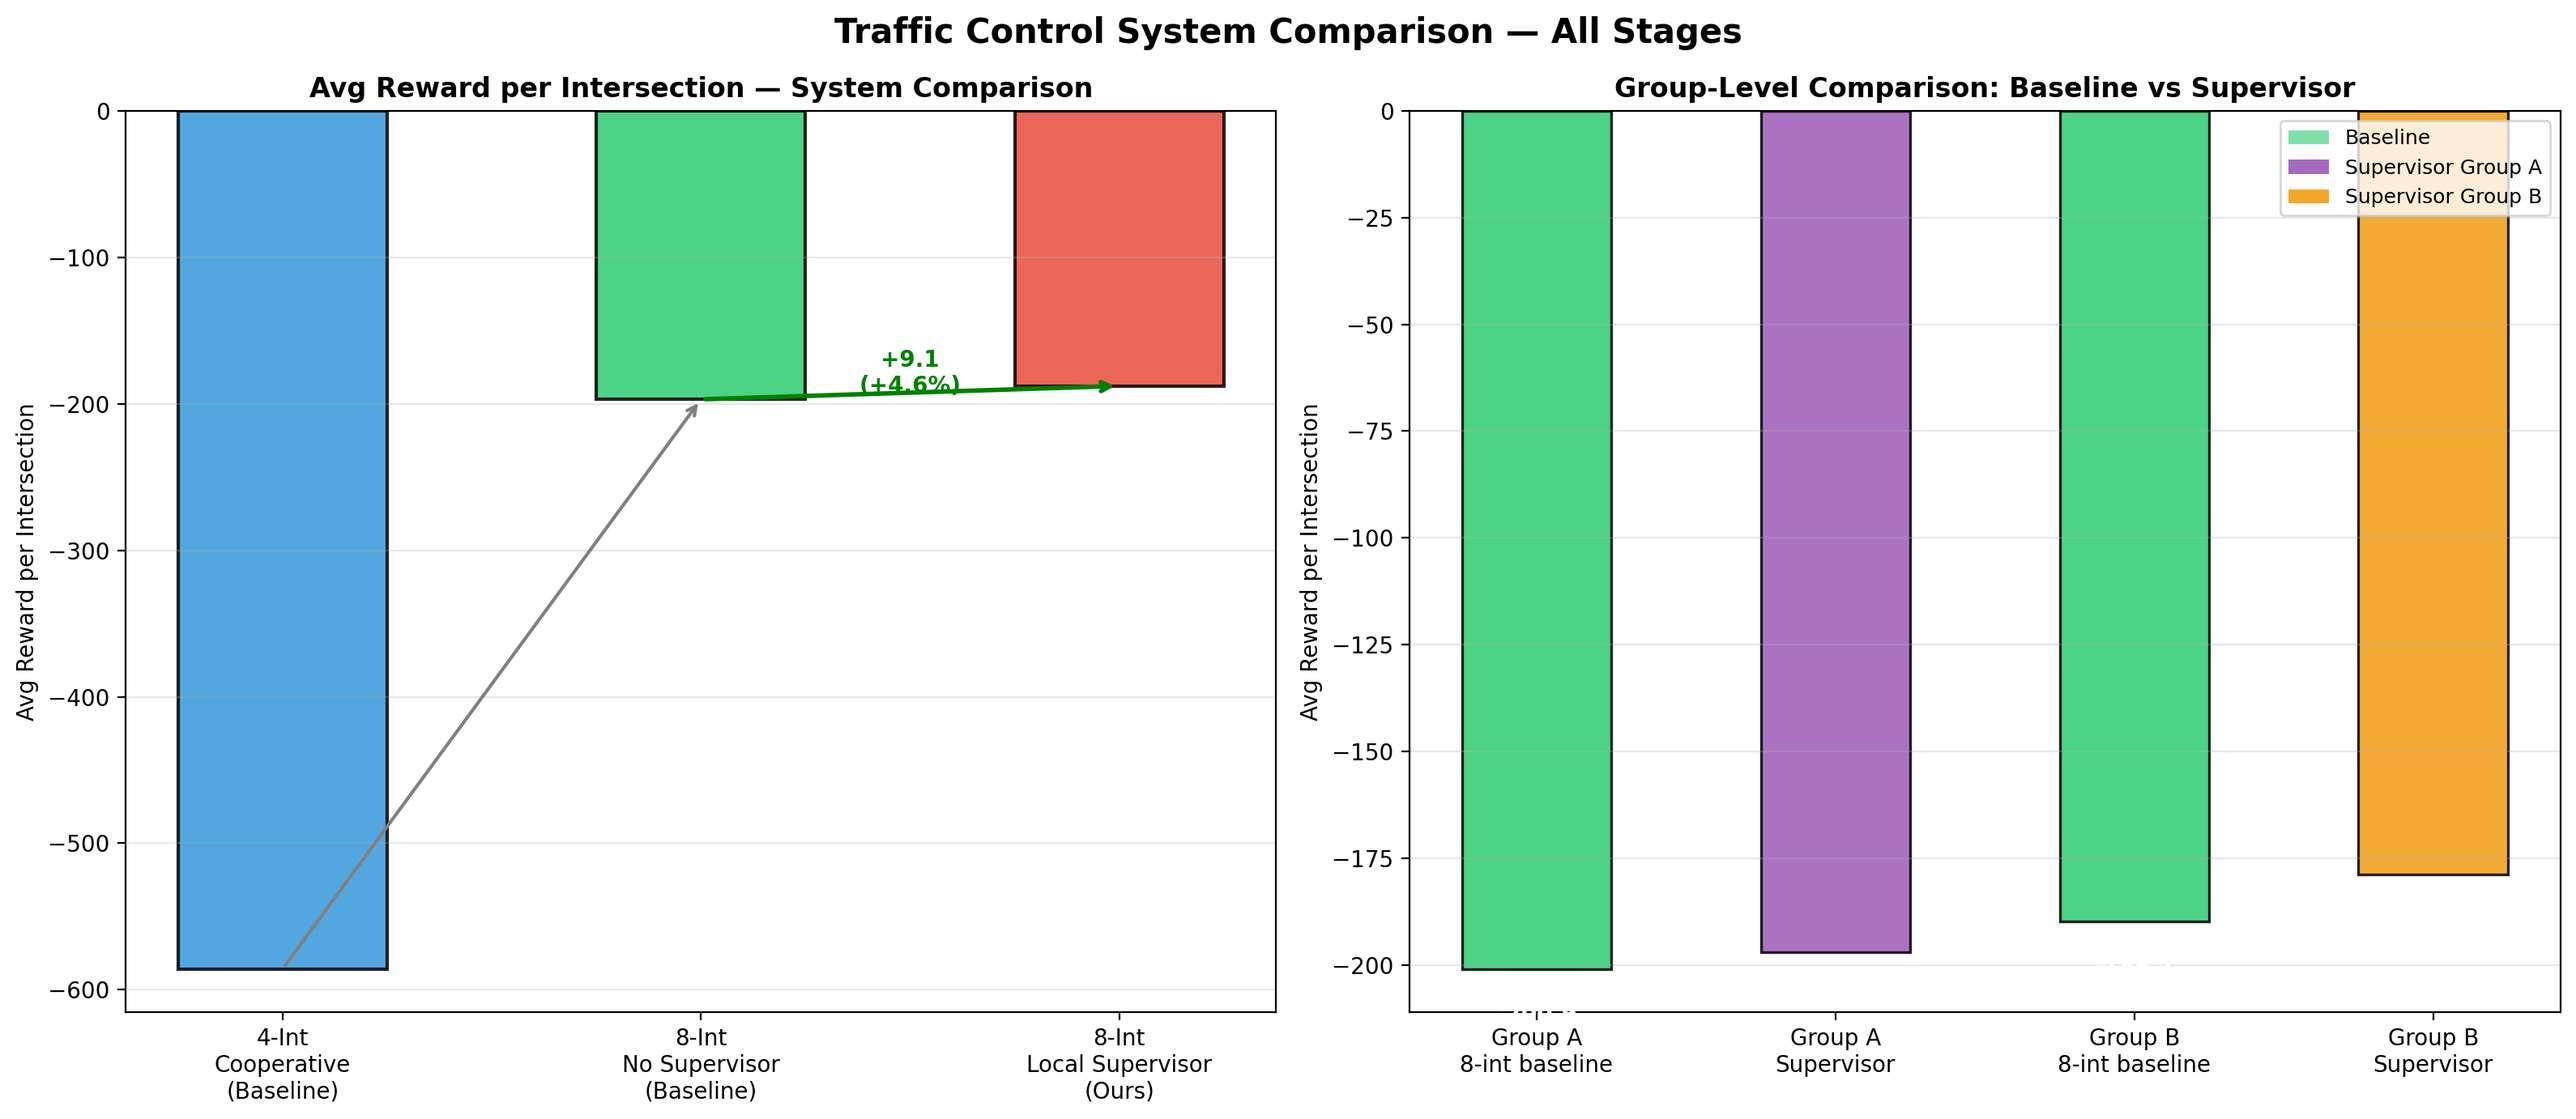
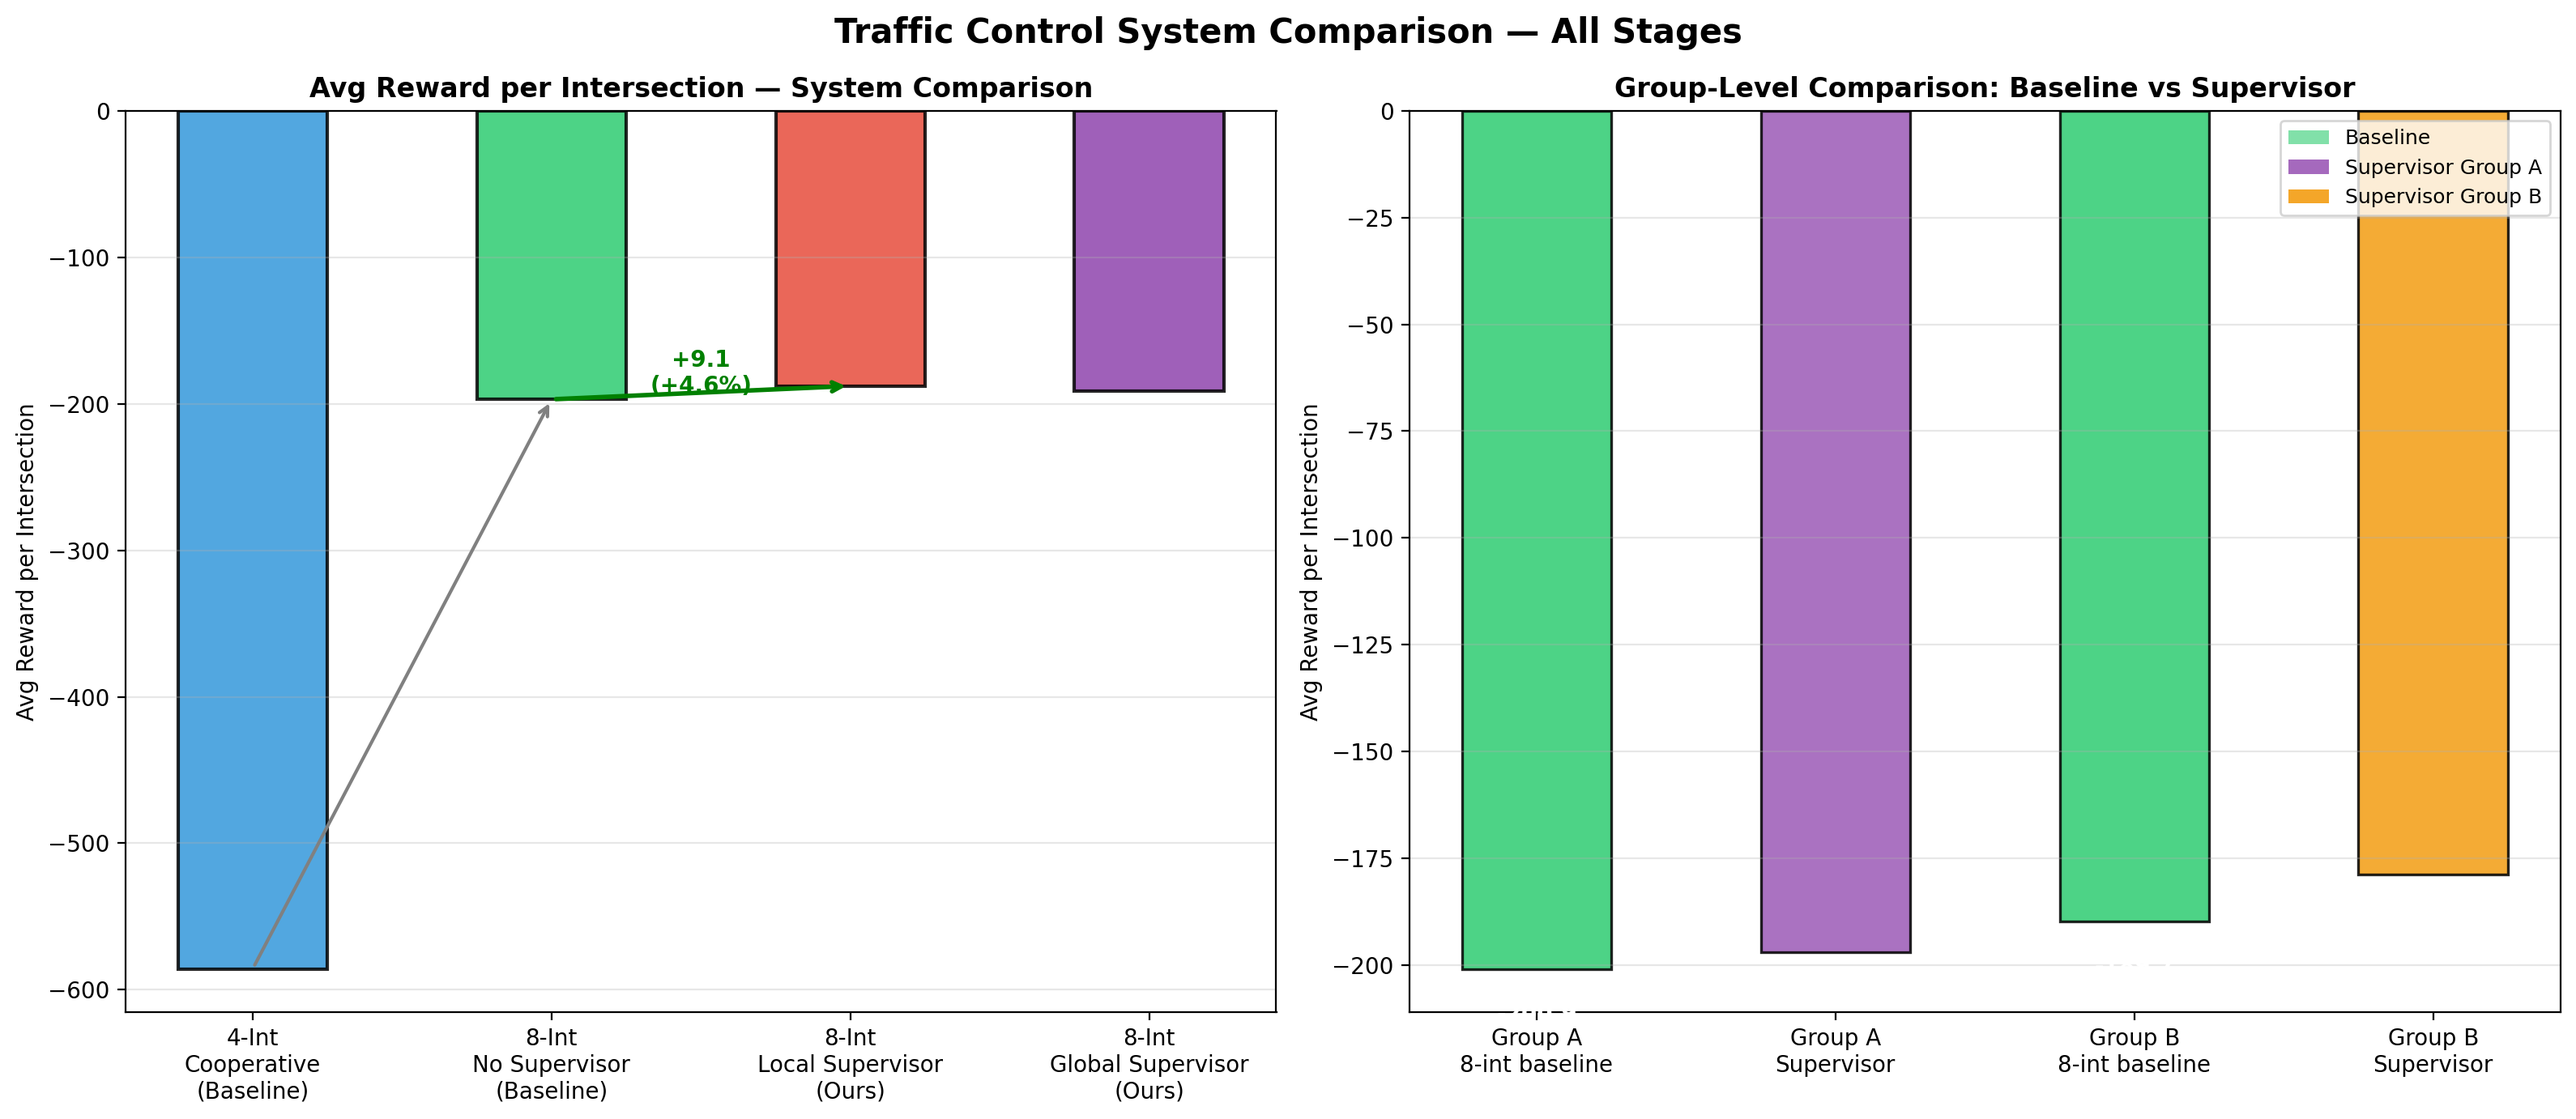
generating some visualtion

diff --git a/analyze_global_supervisor.py b/analyze_global_supervisor.py
@@ -1,0 +1,213 @@
+"""
+Global Supervisor System — Visualization & Validation
+===================================================
+Generates plots and validation specifically for the Global Supervisor (Step 2)
+Output folder: analysis_global_supervisor/
+"""
+
+import os
+import numpy as np
+import pandas as pd
+import matplotlib.pyplot as plt
+import matplotlib.patches as mpatches
+from matplotlib.gridspec import GridSpec
+
+OUTPUT_DIR = 'analysis_global_supervisor'
+os.makedirs(OUTPUT_DIR, exist_ok=True)
+
+# ── Colour palette ────────────────────────────────────────────────────────────
+C_BASELINE  = '#2ECC71'   # green  — 8-intersection baseline
+C_SUP_LOCAL = '#E74C3C'   # red    — local supervisor
+C_SUP_GLOB  = '#8E44AD'   # purple — global supervisor
+C_GROUP_A   = '#9B59B6'   # purple
+C_GROUP_B   = '#F39C12'   # orange
+
+BASELINE_8INT  = -197.0
+LOCAL_SUP_AVG  = -187.9
+
+# ─────────────────────────────────────────────────────────────────────────────
+# Load data
+# ─────────────────────────────────────────────────────────────────────────────
+def load_global_data():
+    data = {}
+    
+    path = 'results_global_supervisor/training_history.csv'
+    if os.path.exists(path):
+        data['train'] = pd.read_csv(path)
+    else:
+        print(f"✗ Missing: {path}")
+        data['train'] = None
+
+    path = 'results_global_supervisor/eval_results.csv'
+    if os.path.exists(path):
+        data['eval'] = pd.read_csv(path)
+    else:
+        print(f"✗ Missing: {path}")
+        data['eval'] = None
+
+    return data
+
+# ─────────────────────────────────────────────────────────────────────────────
+# Validation checks
+# ─────────────────────────────────────────────────────────────────────────────
+def validate_data(data):
+    print("\n" + "="*60)
+    print("  GLOBAL SUPERVISOR - DATA VALIDATION")
+    print("="*60)
+    errors = []
+
+    if data.get('train') is not None:
+        df = data['train']
+        print(f"\n[Global Supervisor Training]")
+        print(f"  Episodes        : {len(df)}")
+        print(f"  Network reward  : min={df['Network_Reward'].min():.1f}, "
+              f"max={df['Network_Reward'].max():.1f}, "
+              f"final={df['Network_Reward'].iloc[-1]:.1f}")
+        print(f"  Sup A loss      : mean={df['Sup_A_Loss'].mean():.4f}")
+        
+        first_half  = df['Network_Reward'].iloc[:len(df)//2].mean()
+        second_half = df['Network_Reward'].iloc[len(df)//2:].mean()
+        if second_half > first_half:
+            print(f"  ✅ Reward improved: {first_half:.1f} → {second_half:.1f}")
+        else:
+            print(f"  ⚠  Reward did NOT improve: {first_half:.1f} → {second_half:.1f}")
+            errors.append("Training reward did not improve over time. The 28-dim space might be unstable.")
+
+        tls_ids = [c for c in df.columns if c.startswith('tls_')]
+        if tls_ids:
+            final_rewards = [df[t].iloc[-50:].mean() for t in tls_ids]
+            if len(set([round(r, 1) for r in final_rewards])) > 1:
+                print(f"  ✅ Per-intersection rewards are differentiated")
+            else:
+                print(f"  ⚠  All per-intersection rewards are identical")
+                errors.append("Per-intersection rewards identical")
+
+    if data.get('eval') is not None:
+        df = data['eval']
+        print(f"\n[Global Supervisor Evaluation]")
+        print(f"  Episodes        : {len(df)}")
+        rewards = df['network_reward'].values
+        print(f"  Avg reward/ep   : {rewards.mean():.1f} ± {rewards.std():.1f}")
+        print(f"  Avg/intersection: {rewards.mean()/8:.1f}")
+
+        if rewards.std() > 1.0:
+            print(f"  ✅ Evaluation has healthy variation (std={rewards.std():.1f})")
+        else:
+            print(f"  ⚠  Evaluation results are suspiciously deterministic")
+            errors.append("Evaluation results are deterministic")
+
+    print("\n" + "="*60)
+    if errors:
+        print(f"  ⚠  {len(errors)} issue(s) found:")
+        for e in errors:
+            print(f"     • {e}")
+    else:
+        print("  ✅ All checks passed — global supervisor data looks healthy!")
+    print("="*60)
+    return errors
+
+# ─────────────────────────────────────────────────────────────────────────────
+# Polt 1: Training Convergence
+# ─────────────────────────────────────────────────────────────────────────────
+def plot_training_convergence(data):
+    if data.get('train') is None: return
+
+    df = data['train']
+    eps = np.arange(1, len(df) + 1)
+    window = 30
+
+    fig = plt.figure(figsize=(18, 10))
+    fig.suptitle('Global Supervisor Training Convergence (900 Episodes)', fontsize=16, fontweight='bold', y=0.98)
+    gs = GridSpec(2, 3, figure=fig, hspace=0.4, wspace=0.35)
+
+    # 1a: Network reward
+    ax = fig.add_subplot(gs[0, :2])
+    ax.plot(eps, df['Network_Reward'], alpha=0.25, color=C_SUP_GLOB, linewidth=0.8)
+    smooth = df['Network_Reward'].rolling(window, min_periods=1).mean()
+    ax.plot(eps, smooth, color=C_SUP_GLOB, linewidth=2.5, label='Global Sup (smoothed)')
+    ax.axhline(BASELINE_8INT * 8, color=C_BASELINE, linestyle='--', linewidth=2, label=f'8-int baseline ({BASELINE_8INT * 8:.0f})')
+    ax.axhline(LOCAL_SUP_AVG * 8, color=C_SUP_LOCAL, linestyle=':', linewidth=2, label=f'Local Sup avg ({LOCAL_SUP_AVG * 8:.0f})')
+    ax.set_title('Network Total Reward per Episode', fontweight='bold')
+    ax.legend(fontsize=9)
+    ax.grid(True, alpha=0.3)
+
+    # 1b: Group rewards
+    ax = fig.add_subplot(gs[0, 2])
+    smooth_a = df['Group_A_Reward'].rolling(window, min_periods=1).mean() / 4
+    smooth_b = df['Group_B_Reward'].rolling(window, min_periods=1).mean() / 4
+    ax.plot(eps, smooth_a, color=C_GROUP_A, linewidth=2, label='Group A avg/int')
+    ax.plot(eps, smooth_b, color=C_GROUP_B, linewidth=2, label='Group B avg/int')
+    ax.axhline(BASELINE_8INT, color=C_BASELINE, linestyle='--', linewidth=1.5, label=f'Baseline ({BASELINE_8INT})')
+    ax.set_title('Group Rewards (smoothed)', fontweight='bold')
+    ax.legend(fontsize=8)
+    ax.grid(True, alpha=0.3)
+
+    # 1c: Losses
+    ax = fig.add_subplot(gs[1, 2])
+    smooth_la = df['Sup_A_Loss'].rolling(window, min_periods=1).mean()
+    smooth_lb = df['Sup_B_Loss'].rolling(window, min_periods=1).mean()
+    ax.plot(eps, smooth_la, color=C_GROUP_A, linewidth=2, label='Supervisor A loss')
+    ax.plot(eps, smooth_lb, color=C_GROUP_B, linewidth=2, label='Supervisor B loss')
+    ax.set_title('Global Supervisor TD Loss (smoothed)', fontweight='bold')
+    ax.legend(fontsize=9)
+    ax.grid(True, alpha=0.3)
+
+    plt.savefig(f'{OUTPUT_DIR}/01_global_training_convergence.png', dpi=200, bbox_inches='tight')
+    plt.close()
+
+# ─────────────────────────────────────────────────────────────────────────────
+# Plot 2: Evaluation Breakdown
+# ─────────────────────────────────────────────────────────────────────────────
+def plot_eval_breakdown(data):
+    if data.get('eval') is None: return
+
+    df = data['eval']
+    tls_ids = [f'tls_{i}' for i in range(1, 9)]
+    avgs = [df[t].mean() for t in tls_ids]
+    stds = [df[t].std() for t in tls_ids]
+
+    fig, axes = plt.subplots(1, 2, figsize=(16, 7))
+    fig.suptitle('Global Supervisor — Per-Intersection Evaluation Performance', fontsize=15, fontweight='bold')
+
+    ax = axes[0]
+    colors = [C_GROUP_A if i < 4 else C_GROUP_B for i in range(len(tls_ids))]
+    bars = ax.bar(tls_ids, avgs, yerr=stds, color=colors, alpha=0.85, edgecolor='black', capsize=5)
+    ax.axhline(BASELINE_8INT, color=C_BASELINE, linewidth=2.5, linestyle='--', label=f'Baseline ({BASELINE_8INT})')
+    
+    global_avg = df['network_reward'].mean() / 8
+    ax.axhline(global_avg, color=C_SUP_GLOB, linewidth=2, linestyle='-', label=f'Global avg ({global_avg:.1f})')
+    ax.axhline(LOCAL_SUP_AVG, color=C_SUP_LOCAL, linewidth=2, linestyle=':', label=f'Local avg ({LOCAL_SUP_AVG})')
+    
+    ax.set_title('Avg Reward per Intersection (±std)', fontweight='bold')
+    ax.legend(fontsize=9)
+    ax.grid(axis='y', alpha=0.3)
+
+    for bar, val, std in zip(bars, avgs, stds):
+        ax.text(bar.get_x() + bar.get_width()/2, val - std - 15, f'{val:.0f}', ha='center', va='top', fontsize=8, color='white')
+
+    ax = axes[1]
+    episodes = df['episode'].values
+    net_per_int = df['network_reward'].values / 8
+    ax.plot(episodes, net_per_int, 'o-', color=C_SUP_GLOB, linewidth=2, markersize=5, label='Global Supervisor avg/int')
+    ax.axhline(BASELINE_8INT, color=C_BASELINE, linewidth=2, linestyle='--', label=f'Baseline ({BASELINE_8INT})')
+    ax.axhline(LOCAL_SUP_AVG, color=C_SUP_LOCAL, linewidth=2, linestyle=':', label=f'Local Supervisor ({LOCAL_SUP_AVG})')
+    
+    ax.set_title('Episode-by-Episode Consistency', fontweight='bold')
+    ax.legend(fontsize=9)
+    ax.grid(True, alpha=0.3)
+
+    plt.tight_layout()
+    plt.savefig(f'{OUTPUT_DIR}/02_global_eval_per_intersection.png', dpi=200, bbox_inches='tight')
+    plt.close()
+
+def main():
+    data = load_global_data()
+    errors = validate_data(data)
+    
+    plot_training_convergence(data)
+    plot_eval_breakdown(data)
+    
+    print(f"\n✅ All global supervisor plots saved to: {OUTPUT_DIR}/")
+
+if __name__ == '__main__':
+    main()
